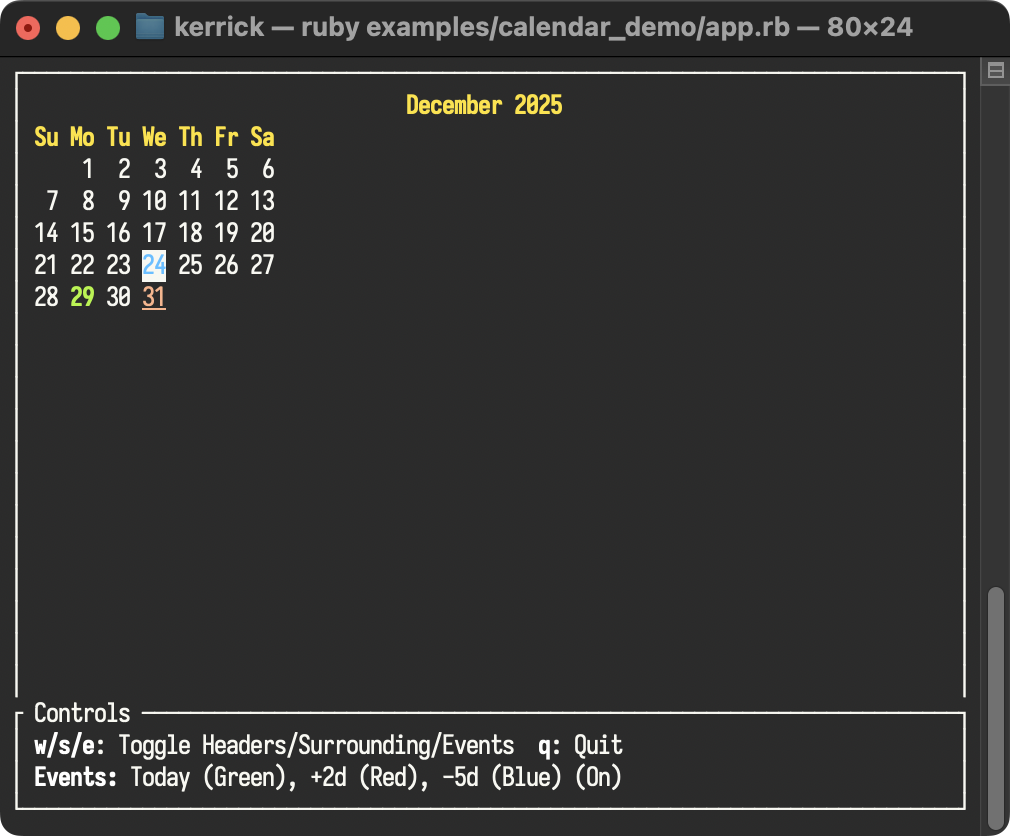
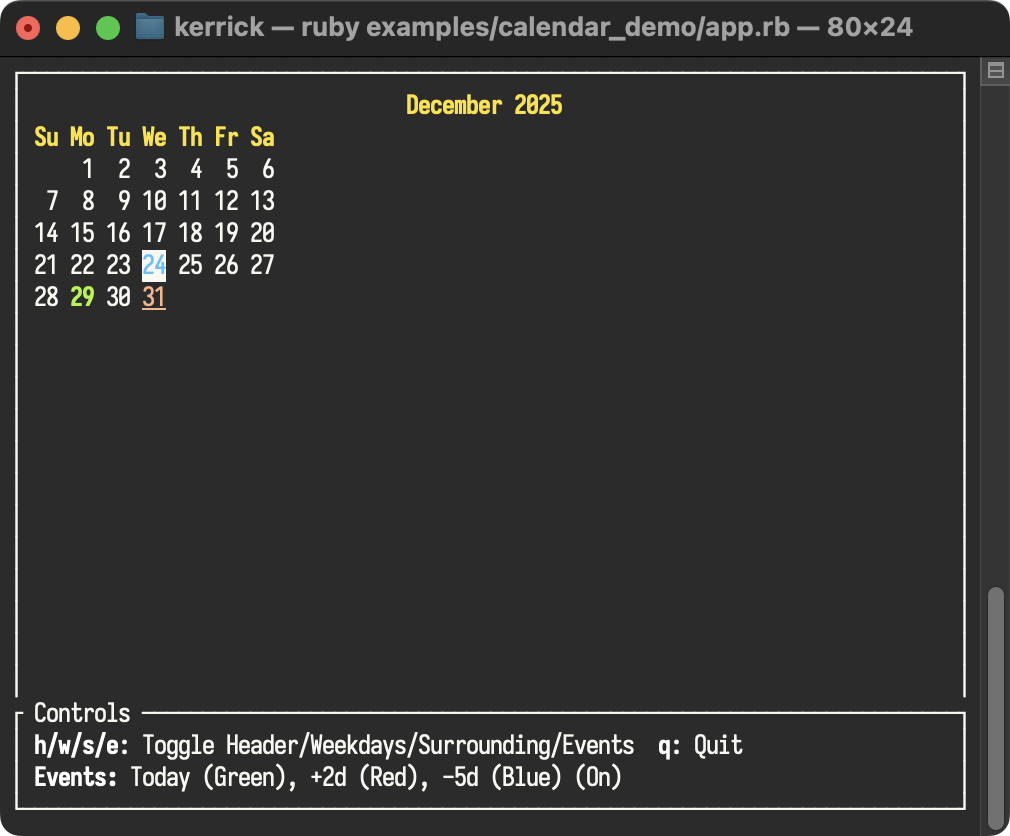
feat!(calendar): implement show_month_header toggle
Add the show_month_header parameter to the Calendar widget, allowing
users to control the visibility of the month name header.

This introduces a BREAKING CHANGE: the default value for show_month_header
is false, which aligns with the upstream Ratatui (Rust) default behavior.
Previously, the header was implicitly shown if a style was provided (or
by default). Users who wish to display the month header must now explicitly
pass show_month_header: true.

Generated with [Antigravity](https://antigravity.google)

Changed region(s): [[0.0307, 0.8708, 0.7366, 0.933]]

diff --git a/test/ratatui_ruby/schema/test_calendar.rb b/test/ratatui_ruby/schema/test_calendar.rb
@@ -11,16 +11,27 @@ module RatatuiRuby
     def test_calendar_rendering
       # December 2025
       with_test_terminal(22, 7) do
+        # Default: show_month_header: false
         calendar = Calendar.new(year: 2025, month: 12)
+        RatatuiRuby.draw(calendar)
+
+        # Header is hidden, so calendar starts directly with weekdays or dates
+        assert_equal " Su Mo Tu We Th Fr Sa ", buffer_content[0]
+        assert_equal "     1  2  3  4  5  6 ", buffer_content[1]
+        assert_equal "  7  8  9 10 11 12 13 ", buffer_content[2]
+        assert_equal " 14 15 16 17 18 19 20 ", buffer_content[3]
+        assert_equal " 21 22 23 24 25 26 27 ", buffer_content[4]
+        assert_equal " 28 29 30 31          ", buffer_content[5]
+      end
+    end
+
+    def test_calendar_with_header
+      with_test_terminal(22, 7) do
+        calendar = Calendar.new(year: 2025, month: 12, show_month_header: true)
         RatatuiRuby.draw(calendar)
 
         assert_equal "    December 2025     ", buffer_content[0]
         assert_equal " Su Mo Tu We Th Fr Sa ", buffer_content[1]
-        assert_equal "     1  2  3  4  5  6 ", buffer_content[2]
-        assert_equal "  7  8  9 10 11 12 13 ", buffer_content[3]
-        assert_equal " 14 15 16 17 18 19 20 ", buffer_content[4]
-        assert_equal " 21 22 23 24 25 26 27 ", buffer_content[5]
-        assert_equal " 28 29 30 31          ", buffer_content[6]
       end
     end
 
@@ -32,6 +43,7 @@ module RatatuiRuby
           month: 12,
           day_style: style,
           header_style: style,
+          show_month_header: true,
           block: Block.new(title: "Test Block")
         )
         RatatuiRuby.draw(calendar)

diff --git a/examples/calendar_demo/app.rb b/examples/calendar_demo/app.rb
@@ -10,6 +10,7 @@ require "ratatui_ruby"
 class CalendarDemoApp
   def run
     RatatuiRuby.run do
+      show_header = true
       show_weekdays = true
       show_surrounding = false
       show_events = true
@@ -37,6 +38,7 @@ class CalendarDemoApp
           month: now.month,
           events: events_map,
           header_style: RatatuiRuby::Style.new(fg: "yellow", modifiers: [:bold]),
+          show_month_header: show_header,
           show_weekdays_header: show_weekdays,
           show_surrounding: surrounding_style,
           block: RatatuiRuby::Block.new(borders: [:top, :left, :right])
@@ -45,8 +47,8 @@ class CalendarDemoApp
         controls_text = [
           RatatuiRuby::Text::Line.new(
             spans: [
-              RatatuiRuby::Text::Span.new(content: " w/s/e", style: RatatuiRuby::Style.new(modifiers: [:bold])),
-              RatatuiRuby::Text::Span.new(content: ": Toggle Headers/Surrounding/Events  "),
+              RatatuiRuby::Text::Span.new(content: " h/w/s/e", style: RatatuiRuby::Style.new(modifiers: [:bold])),
+              RatatuiRuby::Text::Span.new(content: ": Toggle Header/Weekdays/Surrounding/Events  "),
               RatatuiRuby::Text::Span.new(content: "q", style: RatatuiRuby::Style.new(modifiers: [:bold])),
               RatatuiRuby::Text::Span.new(content: ": Quit"),
             ]
@@ -78,6 +80,8 @@ class CalendarDemoApp
         case event
         in {type: :key, code: "q"} | {type: :key, code: "c", modifiers: ["ctrl"]}
           break
+        in type: :key, code: "h"
+          show_header = !show_header
         in type: :key, code: "w"
           show_weekdays = !show_weekdays
         in type: :key, code: "s"

diff --git a/examples/calendar_demo/test_app.rb b/examples/calendar_demo/test_app.rb
@@ -26,7 +26,7 @@ class TestCalendarDemoApp < Minitest::Test
       rendered_text = content.join("\n")
 
       # Verify the bottom controls are present
-      assert_match(/w\/s\/e: Toggle Headers\/Surrounding\/Events/, rendered_text)
+      assert_match(/h\/w\/s\/e: Toggle Header\/Weekdays\/Surrounding\/Events/, rendered_text)
       assert_match(/q: Quit/, rendered_text)
 
       # Verify the calendar content is present
@@ -49,6 +49,27 @@ class TestCalendarDemoApp < Minitest::Test
       rendered_text = content.join("\n")
 
       # The app should render successfully with weekdays toggled
+      assert_match(/#{Time.now.year}/, rendered_text)
+    end
+  end
+
+  def test_toggle_header
+    with_test_terminal do
+      inject_keys("h", :q)
+
+      @app.run
+
+      content = buffer_content
+      rendered_text = content.join("\n")
+
+      # The app should render successfully with header toggled (hidden)
+      refute_match(/#{Time.now.year}/, rendered_text)
+ 
+      # Inject h again to show it (h -> off, h -> on)
+      inject_keys("h", "h", :q)
+      @app.run
+      content = buffer_content
+      rendered_text = content.join("\n")
       assert_match(/#{Time.now.year}/, rendered_text)
     end
   end

diff --git a/lib/ratatui_ruby/schema/calendar.rb b/lib/ratatui_ruby/schema/calendar.rb
@@ -21,7 +21,7 @@ module RatatuiRuby
     #     day_style: Style.new(fg: :white),
     #     header_style: Style.new(fg: :yellow, modifiers: [:bold])
     #   )
-    class Calendar < Data.define(:year, :month, :events, :day_style, :header_style, :block, :show_weekdays_header, :show_surrounding)
+    class Calendar < Data.define(:year, :month, :events, :day_style, :header_style, :block, :show_weekdays_header, :show_surrounding, :show_month_header)
       ##
       # :attr_reader: year
       # The year to display (Integer).
@@ -66,7 +66,7 @@ module RatatuiRuby
       # [block] Block.
       # [show_weekdays_header] Boolean. Whether to show the weekday header.
       # [show_surrounding] <tt>Style</tt> or <tt>nil</tt>. Style for surrounding month dates.
-      def initialize(year:, month:, events: {}, day_style: nil, header_style: nil, block: nil, show_weekdays_header: true, show_surrounding: nil)
+      def initialize(year:, month:, events: {}, day_style: nil, header_style: nil, block: nil, show_weekdays_header: true, show_surrounding: nil, show_month_header: false)
         super
       end
     end

diff --git a/ext/ratatui_ruby/src/widgets/calendar.rs b/ext/ratatui_ruby/src/widgets/calendar.rs
@@ -49,12 +49,18 @@ pub fn render(frame: &mut Frame, area: Rect, node: Value) -> Result<(), Error> {
 
     let mut calendar = Monthly::new(date, event_store);
 
+
+
     let header_style = if !header_style_val.is_nil() {
         parse_style(header_style_val)?
     } else {
         ratatui::style::Style::default()
     };
-    calendar = calendar.show_month_header(header_style);
+
+    let show_month_header: bool = node.funcall("show_month_header", ())?;
+    if show_month_header {
+        calendar = calendar.show_month_header(header_style);
+    }
 
     if show_weekdays_header {
         calendar = calendar.show_weekdays_header(header_style);
@@ -107,4 +113,6 @@ mod tests {
             content
         );
     }
+
+
 }

diff --git a/CHANGELOG.md b/CHANGELOG.md
@@ -21,6 +21,7 @@ This project adheres to [Semantic Versioning](https://semver.org/spec/v2.0.0.htm
 - **List Repeat Highlight Symbol**: Added `repeat_highlight_symbol` parameter to the `List` widget. When set to `true`, the highlight symbol is repeated on each line of the selected item, rather than appearing only on the first line. Matches Ratatui 0.30's `repeat_highlight_symbol` feature. The `list_styles` example now demonstrates toggling this option with the `r` key.
 - **Gauge Style and GaugeStyle (Breaking)**: Added separate `style` and `gauge_style` parameters to the `Gauge` widget. The `style` parameter applies a base style to the entire gauge background, while `gauge_style` applies specifically to the filled bar portion. This matches Ratatui 0.30's widget API distinction. **Breaking:** The `style` parameter no longer defaults to `Style.default` and is now optional. Existing code that passes `style:` expecting bar coloring should change to `gauge_style:` instead.
 - **Gauge Demo Example**: New `gauge_demo` example demonstrates the `Gauge` widget comprehensively with interactive attribute cycling (ratio, gauge color, background style, Unicode mode, label format). Follows the developing_examples.md pattern with a sidebar for hotkey documentation.
+- **Calendar Month Header (Breaking)**: Added `show_month_header` parameter to `Calendar` widget (boolean, defaults to `false`). This aligns with Ratatui's default behavior where the month header is hidden unless explicitly enabled. **Breaking:** Previously, the header was always shown essentially by default (via `header_style`). Existing code relying on the header being visible must now set `show_month_header: true`. The `calendar_demo` example now demonstrates toggling this with the `h` key.
 
 ### Added (continued)
 

diff --git a/doc/quickstart.md b/doc/quickstart.md
@@ -155,7 +155,7 @@ A simple demonstration of `Block` and `Paragraph` widgets, reacting to key press
 
 ### [Calendar Demo](https://git.sr.ht/~kerrick/ratatui_ruby/tree/main/item/examples/calendar_demo/app.rb)
 
-Demonstrates the `Calendar` widget with interactive attribute cycling. Features event highlighting (dates with specific styles), toggleable weekday header, and surrounding month visibility (with custom styling) via keyboard shortcuts. Press `w` to toggle the weekday header, `s` to toggle surrounding month dates, and `e` to toggle events.
+Demonstrates the `Calendar` widget with interactive attribute cycling. Features event highlighting (dates with specific styles), toggleable month/weekday headers, and surrounding month visibility (with custom styling) via keyboard shortcuts. Press `h` to toggle month header, `w` to toggle weekday header, `s` to toggle surrounding month dates, and `e` to toggle events.
 
 ![calendar_demo](./images/calendar_demo.png)
 

diff --git a/doc/contributors/gap_analysis_0.30.md b/doc/contributors/gap_analysis_0.30.md
@@ -251,7 +251,7 @@ Note: Table widths support all constraints (`:length`, `:percentage`, `:min`, `:
 | `display_date` | `year:` / `month:` | ✅ |
 | `block()` | `block:` | ✅ |
 | `default_style()` | `day_style:` | ✅ |
-| `show_month_header()` | `header_style:` | ⚠ Partial |
+| `show_month_header()` | `show_month_header:` | ✅ |
 | `show_weekdays_header()` | `show_weekdays_header:` | ✅ |
 | `show_surrounding()` | `show_surrounding:` | ✅ |
 | `Event highlighting` | `events:` | ✅ |
